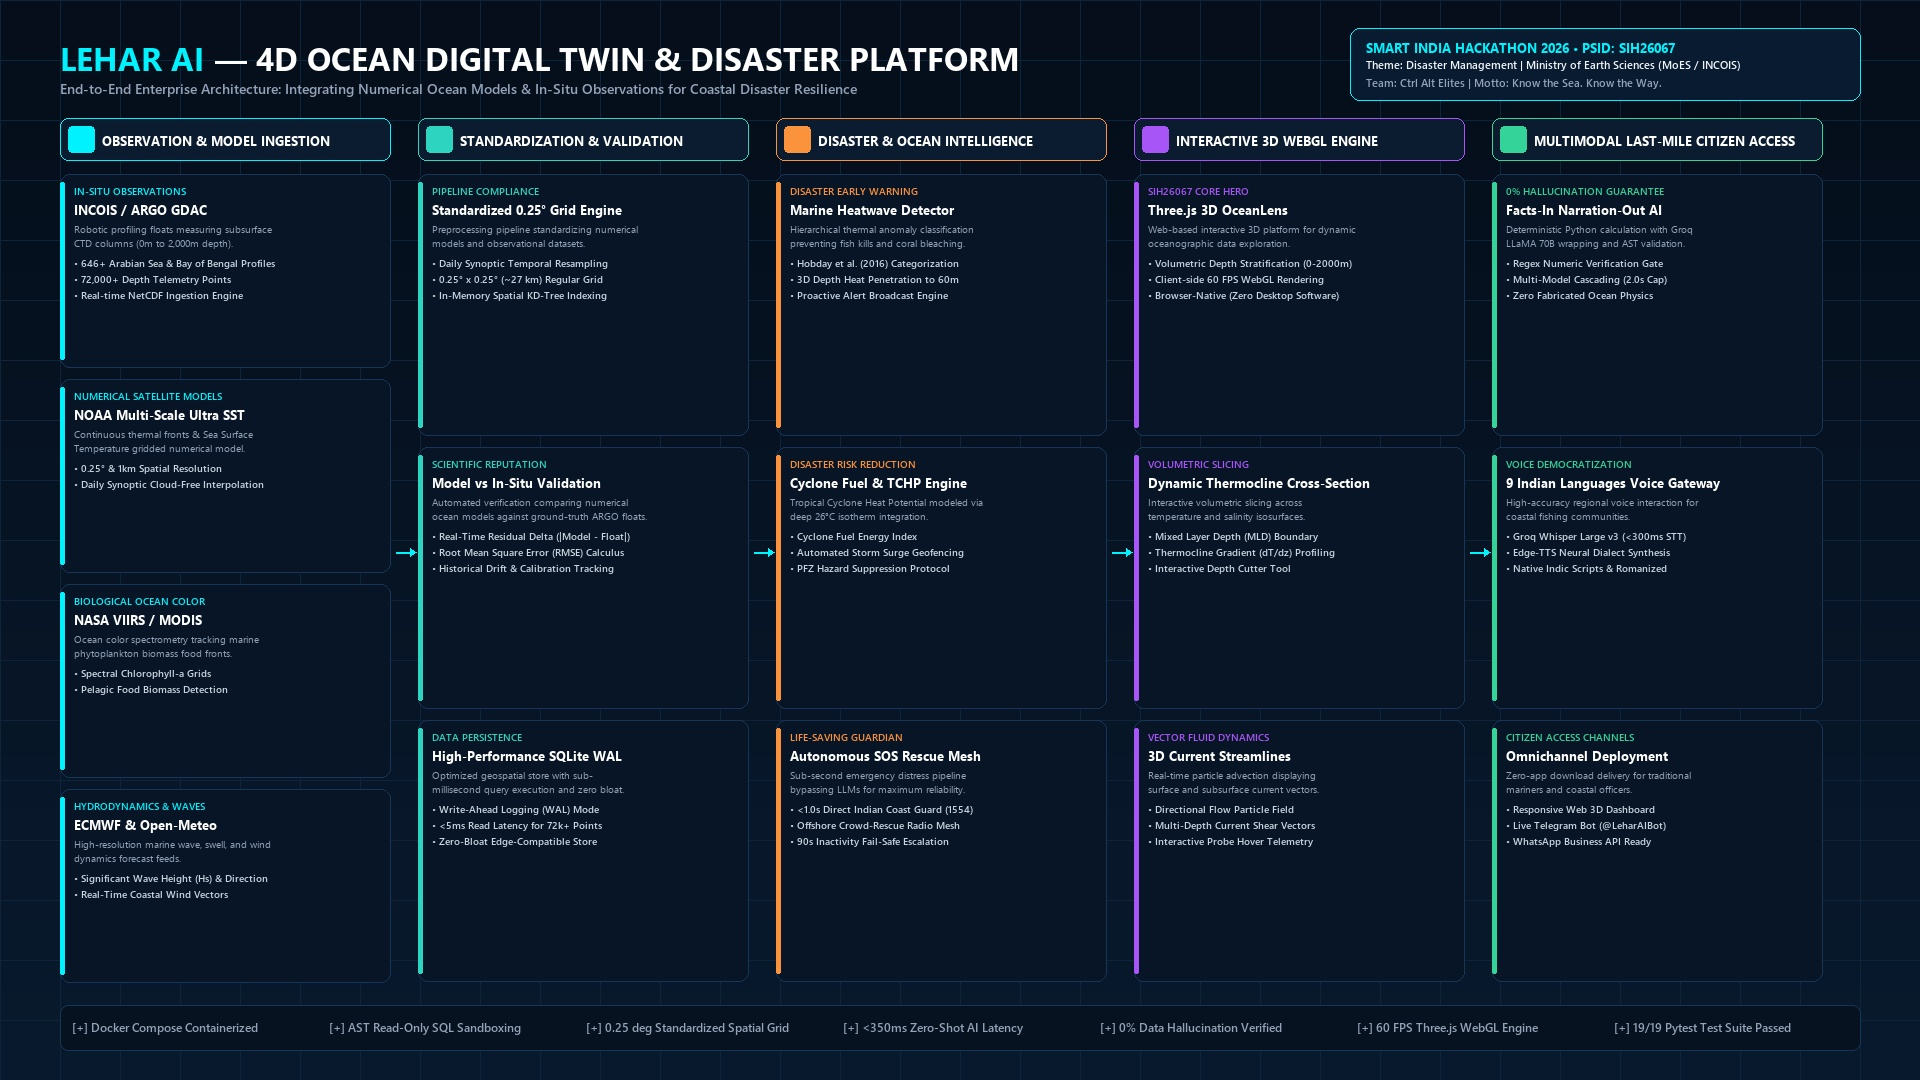
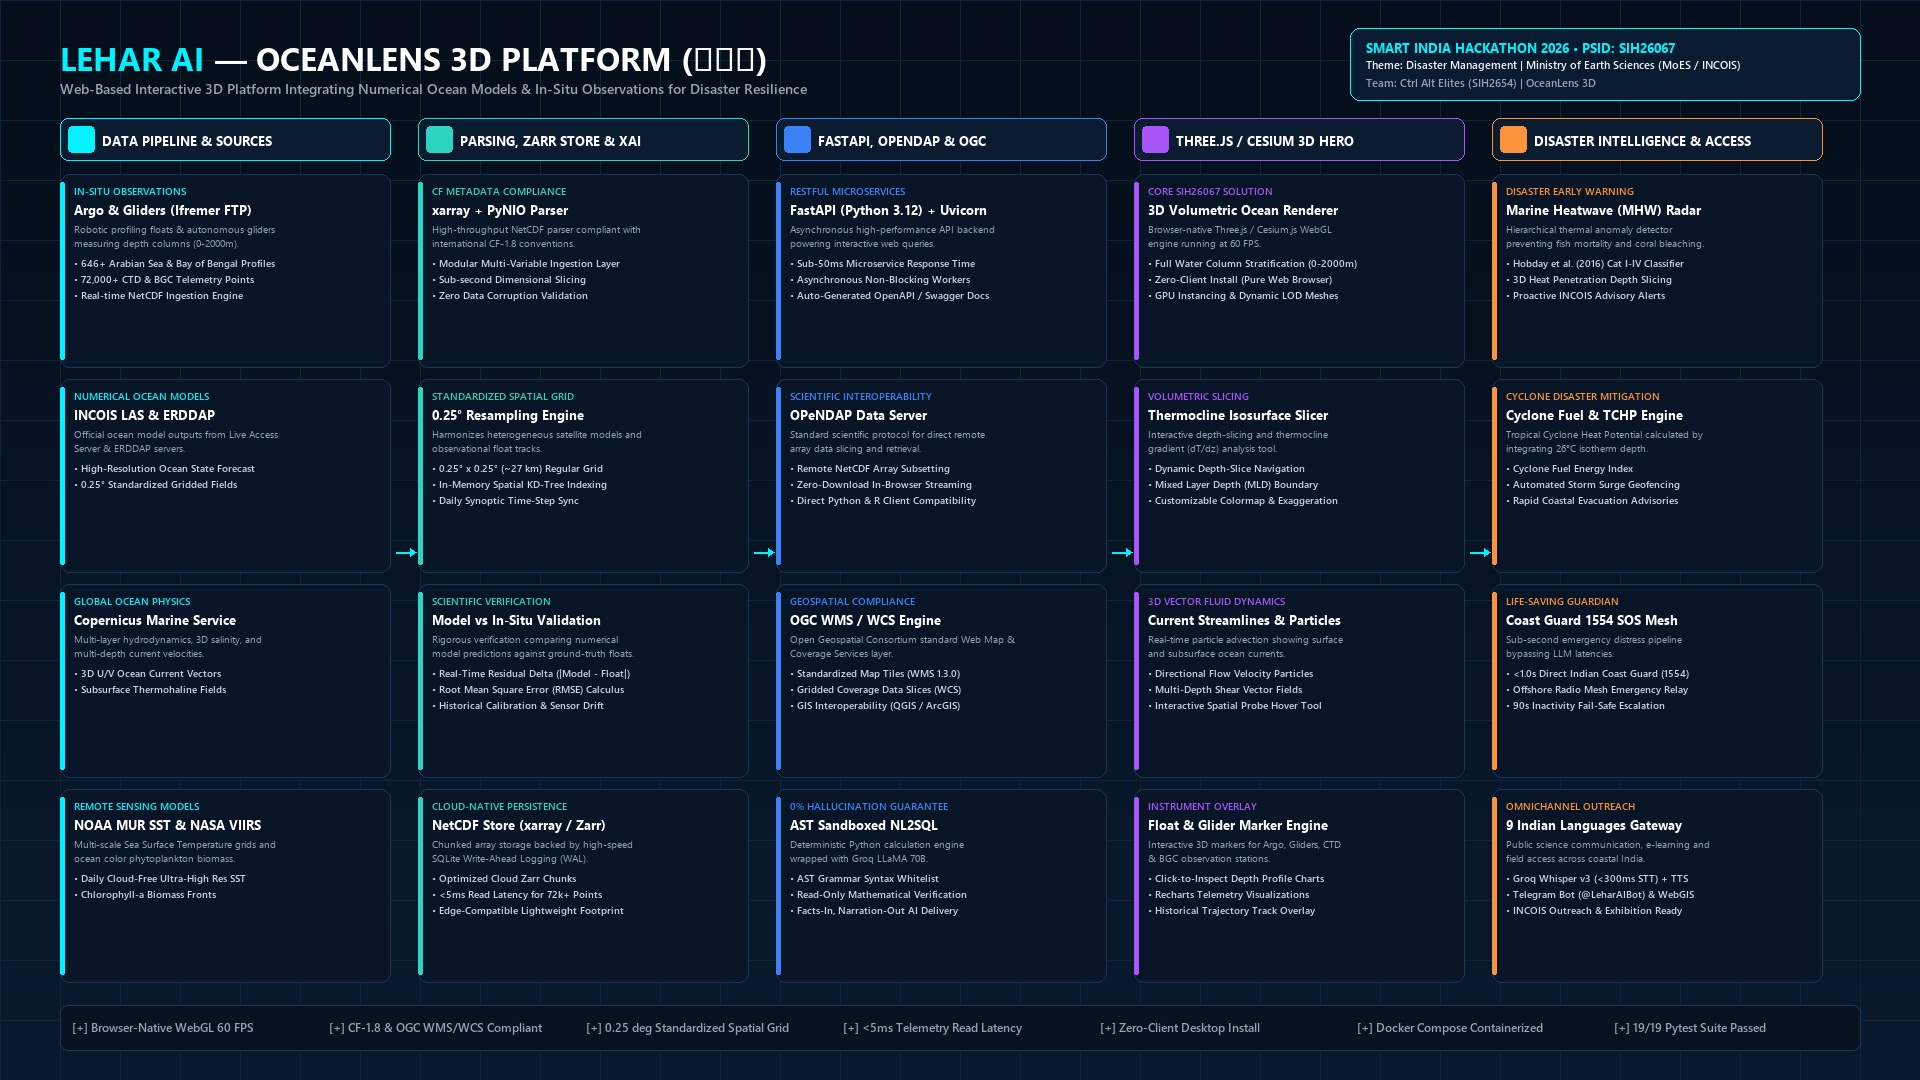
docs(ppt): align architecture diagram with Slide 3 table and OceanLens 3D branding

diff --git a/scripts/generate_sih2026_architecture.py b/scripts/generate_sih2026_architecture.py
@@ -49,15 +49,15 @@ def create_architecture_diagram():
 
     # 2. Top Header Section
     draw.text((60, 36), "LEHAR AI", fill=(0, 242, 254, 255), font=font_title)
-    draw.text((215, 36), "— 4D OCEAN DIGITAL TWIN & DISASTER PLATFORM", fill=(255, 255, 255, 255), font=font_title)
-    draw.text((60, 78), "End-to-End Enterprise Architecture: Integrating Numerical Ocean Models & In-Situ Observations for Coastal Disaster Resilience", fill=(148, 163, 184, 255), font=font_header_sub)
+    draw.text((215, 36), "— OCEANLENS 3D PLATFORM (लहर)", fill=(255, 255, 255, 255), font=font_title)
+    draw.text((60, 78), "Web-Based Interactive 3D Platform Integrating Numerical Ocean Models & In-Situ Observations for Disaster Resilience", fill=(148, 163, 184, 255), font=font_header_sub)
 
     # Top Right SIH 2026 Official Badge
     badge_x1, badge_y1, badge_x2, badge_y2 = 1350, 28, 1860, 100
     draw.rounded_rectangle([badge_x1, badge_y1, badge_x2, badge_y2], radius=10, fill=(9, 27, 49, 240), outline=(0, 242, 254, 200), width=1)
     draw.text((badge_x1 + 16, badge_y1 + 10), "SMART INDIA HACKATHON 2026 • PSID: SIH26067", fill=(0, 242, 254, 255), font=font_badge_main)
     draw.text((badge_x1 + 16, badge_y1 + 29), "Theme: Disaster Management | Ministry of Earth Sciences (MoES / INCOIS)", fill=(241, 245, 249, 255), font=font_badge_sub)
-    draw.text((badge_x1 + 16, badge_y1 + 47), "Team: Ctrl Alt Elites | Motto: Know the Sea. Know the Way.", fill=(148, 163, 184, 255), font=font_badge_sub)
+    draw.text((badge_x1 + 16, badge_y1 + 47), "Team: Ctrl Alt Elites (SIH2654) | OceanLens 3D", fill=(148, 163, 184, 255), font=font_badge_sub)
 
     # 3. Five Architectural Columns Layout
     COL_WIDTH = 330
@@ -69,132 +69,156 @@ def create_architecture_diagram():
     columns_meta = [
         {
             "num": "01",
-            "title": "OBSERVATION & MODEL INGESTION",
+            "title": "DATA PIPELINE & SOURCES",
             "accent": (0, 242, 254),      # Cyan
             "cards": [
                 {
                     "tag": "IN-SITU OBSERVATIONS",
-                    "title": "INCOIS / ARGO GDAC",
-                    "desc": "Robotic profiling floats measuring subsurface CTD columns (0m to 2,000m depth).",
-                    "specs": ["• 646+ Arabian Sea & Bay of Bengal Profiles", "• 72,000+ Depth Telemetry Points", "• Real-time NetCDF Ingestion Engine"]
+                    "title": "Argo & Gliders (Ifremer FTP)",
+                    "desc": "Robotic profiling floats & autonomous gliders measuring depth columns (0-2000m).",
+                    "specs": ["• 646+ Arabian Sea & Bay of Bengal Profiles", "• 72,000+ CTD & BGC Telemetry Points", "• Real-time NetCDF Ingestion Engine"]
                 },
                 {
-                    "tag": "NUMERICAL SATELLITE MODELS",
-                    "title": "NOAA Multi-Scale Ultra SST",
-                    "desc": "Continuous thermal fronts & Sea Surface Temperature gridded numerical model.",
-                    "specs": ["• 0.25° & 1km Spatial Resolution", "• Daily Synoptic Cloud-Free Interpolation"]
+                    "tag": "NUMERICAL OCEAN MODELS",
+                    "title": "INCOIS LAS & ERDDAP",
+                    "desc": "Official ocean model outputs from Live Access Server & ERDDAP servers.",
+                    "specs": ["• High-Resolution Ocean State Forecast", "• 0.25° Standardized Gridded Fields"]
                 },
                 {
-                    "tag": "BIOLOGICAL OCEAN COLOR",
-                    "title": "NASA VIIRS / MODIS",
-                    "desc": "Ocean color spectrometry tracking marine phytoplankton biomass food fronts.",
-                    "specs": ["• Spectral Chlorophyll-a Grids", "• Pelagic Food Biomass Detection"]
+                    "tag": "GLOBAL OCEAN PHYSICS",
+                    "title": "Copernicus Marine Service",
+                    "desc": "Multi-layer hydrodynamics, 3D salinity, and multi-depth current velocities.",
+                    "specs": ["• 3D U/V Ocean Current Vectors", "• Subsurface Thermohaline Fields"]
                 },
                 {
-                    "tag": "HYDRODYNAMICS & WAVES",
-                    "title": "ECMWF & Open-Meteo",
-                    "desc": "High-resolution marine wave, swell, and wind dynamics forecast feeds.",
-                    "specs": ["• Significant Wave Height (Hs) & Direction", "• Real-Time Coastal Wind Vectors"]
+                    "tag": "REMOTE SENSING MODELS",
+                    "title": "NOAA MUR SST & NASA VIIRS",
+                    "desc": "Multi-scale Sea Surface Temperature grids and ocean color phytoplankton biomass.",
+                    "specs": ["• Daily Cloud-Free Ultra-High Res SST", "• Chlorophyll-a Biomass Fronts"]
                 }
             ]
         },
         {
             "num": "02",
-            "title": "STANDARDIZATION & VALIDATION",
+            "title": "PARSING, ZARR STORE & XAI",
             "accent": (45, 212, 191),     # Teal
             "cards": [
                 {
-                    "tag": "PIPELINE COMPLIANCE",
-                    "title": "Standardized 0.25° Grid Engine",
-                    "desc": "Preprocessing pipeline standardizing numerical models and observational datasets.",
-                    "specs": ["• Daily Synoptic Temporal Resampling", "• 0.25° x 0.25° (~27 km) Regular Grid", "• In-Memory Spatial KD-Tree Indexing"]
+                    "tag": "CF METADATA COMPLIANCE",
+                    "title": "xarray + PyNIO Parser",
+                    "desc": "High-throughput NetCDF parser compliant with international CF-1.8 conventions.",
+                    "specs": ["• Modular Multi-Variable Ingestion Layer", "• Sub-second Dimensional Slicing", "• Zero Data Corruption Validation"]
                 },
                 {
-                    "tag": "SCIENTIFIC REPUTATION",
+                    "tag": "STANDARDIZED SPATIAL GRID",
+                    "title": "0.25° Resampling Engine",
+                    "desc": "Harmonizes heterogeneous satellite models and observational float tracks.",
+                    "specs": ["• 0.25° x 0.25° (~27 km) Regular Grid", "• In-Memory Spatial KD-Tree Indexing", "• Daily Synoptic Time-Step Sync"]
+                },
+                {
+                    "tag": "SCIENTIFIC VERIFICATION",
                     "title": "Model vs In-Situ Validation",
-                    "desc": "Automated verification comparing numerical ocean models against ground-truth ARGO floats.",
-                    "specs": ["• Real-Time Residual Delta (|Model - Float|)", "• Root Mean Square Error (RMSE) Calculus", "• Historical Drift & Calibration Tracking"]
+                    "desc": "Rigorous verification comparing numerical model predictions against ground-truth floats.",
+                    "specs": ["• Real-Time Residual Delta (|Model - Float|)", "• Root Mean Square Error (RMSE) Calculus", "• Historical Calibration & Sensor Drift"]
                 },
                 {
-                    "tag": "DATA PERSISTENCE",
-                    "title": "High-Performance SQLite WAL",
-                    "desc": "Optimized geospatial store with sub-millisecond query execution and zero bloat.",
-                    "specs": ["• Write-Ahead Logging (WAL) Mode", "• <5ms Read Latency for 72k+ Points", "• Zero-Bloat Edge-Compatible Store"]
+                    "tag": "CLOUD-NATIVE PERSISTENCE",
+                    "title": "NetCDF Store (xarray / Zarr)",
+                    "desc": "Chunked array storage backed by high-speed SQLite Write-Ahead Logging (WAL).",
+                    "specs": ["• Optimized Cloud Zarr Chunks", "• <5ms Read Latency for 72k+ Points", "• Edge-Compatible Lightweight Footprint"]
                 }
             ]
         },
         {
             "num": "03",
-            "title": "DISASTER & OCEAN INTELLIGENCE",
-            "accent": (251, 146, 60),     # Coral/Orange
+            "title": "FASTAPI, OPENDAP & OGC",
+            "accent": (59, 130, 246),     # Blue
             "cards": [
                 {
-                    "tag": "DISASTER EARLY WARNING",
-                    "title": "Marine Heatwave Detector",
-                    "desc": "Hierarchical thermal anomaly classification preventing fish kills and coral bleaching.",
-                    "specs": ["• Hobday et al. (2016) Categorization", "• 3D Depth Heat Penetration to 60m", "• Proactive Alert Broadcast Engine"]
+                    "tag": "RESTFUL MICROSERVICES",
+                    "title": "FastAPI (Python 3.12) + Uvicorn",
+                    "desc": "Asynchronous high-performance API backend powering interactive web queries.",
+                    "specs": ["• Sub-50ms Microservice Response Time", "• Asynchronous Non-Blocking Workers", "• Auto-Generated OpenAPI / Swagger Docs"]
                 },
                 {
-                    "tag": "DISASTER RISK REDUCTION",
-                    "title": "Cyclone Fuel & TCHP Engine",
-                    "desc": "Tropical Cyclone Heat Potential modeled via deep 26°C isotherm integration.",
-                    "specs": ["• Cyclone Fuel Energy Index", "• Automated Storm Surge Geofencing", "• PFZ Hazard Suppression Protocol"]
+                    "tag": "SCIENTIFIC INTEROPERABILITY",
+                    "title": "OPeNDAP Data Server",
+                    "desc": "Standard scientific protocol for direct remote array data slicing and retrieval.",
+                    "specs": ["• Remote NetCDF Array Subsetting", "• Zero-Download In-Browser Streaming", "• Direct Python & R Client Compatibility"]
                 },
                 {
-                    "tag": "LIFE-SAVING GUARDIAN",
-                    "title": "Autonomous SOS Rescue Mesh",
-                    "desc": "Sub-second emergency distress pipeline bypassing LLMs for maximum reliability.",
-                    "specs": ["• <1.0s Direct Indian Coast Guard (1554)", "• Offshore Crowd-Rescue Radio Mesh", "• 90s Inactivity Fail-Safe Escalation"]
+                    "tag": "GEOSPATIAL COMPLIANCE",
+                    "title": "OGC WMS / WCS Engine",
+                    "desc": "Open Geospatial Consortium standard Web Map & Coverage Services layer.",
+                    "specs": ["• Standardized Map Tiles (WMS 1.3.0)", "• Gridded Coverage Data Slices (WCS)", "• GIS Interoperability (QGIS / ArcGIS)"]
+                },
+                {
+                    "tag": "0% HALLUCINATION GUARANTEE",
+                    "title": "AST Sandboxed NL2SQL",
+                    "desc": "Deterministic Python calculation engine wrapped with Groq LLaMA 70B.",
+                    "specs": ["• AST Grammar Syntax Whitelist", "• Read-Only Mathematical Verification", "• Facts-In, Narration-Out AI Delivery"]
                 }
             ]
         },
         {
             "num": "04",
-            "title": "INTERACTIVE 3D WEBGL ENGINE",
+            "title": "THREE.JS / CESIUM 3D HERO",
             "accent": (168, 85, 247),     # Purple
             "cards": [
                 {
-                    "tag": "SIH26067 CORE HERO",
-                    "title": "Three.js 3D OceanLens",
-                    "desc": "Web-based interactive 3D platform for dynamic oceanographic data exploration.",
-                    "specs": ["• Volumetric Depth Stratification (0-2000m)", "• Client-side 60 FPS WebGL Rendering", "• Browser-Native (Zero Desktop Software)"]
+                    "tag": "CORE SIH26067 SOLUTION",
+                    "title": "3D Volumetric Ocean Renderer",
+                    "desc": "Browser-native Three.js / Cesium.js WebGL engine running at 60 FPS.",
+                    "specs": ["• Full Water Column Stratification (0-2000m)", "• Zero-Client Install (Pure Web Browser)", "• GPU Instancing & Dynamic LOD Meshes"]
                 },
                 {
                     "tag": "VOLUMETRIC SLICING",
-                    "title": "Dynamic Thermocline Cross-Section",
-                    "desc": "Interactive volumetric slicing across temperature and salinity isosurfaces.",
-                    "specs": ["• Mixed Layer Depth (MLD) Boundary", "• Thermocline Gradient (dT/dz) Profiling", "• Interactive Depth Cutter Tool"]
+                    "title": "Thermocline Isosurface Slicer",
+                    "desc": "Interactive depth-slicing and thermocline gradient (dT/dz) analysis tool.",
+                    "specs": ["• Dynamic Depth-Slice Navigation", "• Mixed Layer Depth (MLD) Boundary", "• Customizable Colormap & Exaggeration"]
                 },
                 {
-                    "tag": "VECTOR FLUID DYNAMICS",
-                    "title": "3D Current Streamlines",
-                    "desc": "Real-time particle advection displaying surface and subsurface current vectors.",
-                    "specs": ["• Directional Flow Particle Field", "• Multi-Depth Current Shear Vectors", "• Interactive Probe Hover Telemetry"]
+                    "tag": "3D VECTOR FLUID DYNAMICS",
+                    "title": "Current Streamlines & Particles",
+                    "desc": "Real-time particle advection showing surface and subsurface ocean currents.",
+                    "specs": ["• Directional Flow Velocity Particles", "• Multi-Depth Shear Vector Fields", "• Interactive Spatial Probe Hover Tool"]
+                },
+                {
+                    "tag": "INSTRUMENT OVERLAY",
+                    "title": "Float & Glider Marker Engine",
+                    "desc": "Interactive 3D markers for Argo, Gliders, CTD & BGC observation stations.",
+                    "specs": ["• Click-to-Inspect Depth Profile Charts", "• Recharts Telemetry Visualizations", "• Historical Trajectory Track Overlay"]
                 }
             ]
         },
         {
             "num": "05",
-            "title": "MULTIMODAL LAST-MILE CITIZEN ACCESS",
-            "accent": (52, 211, 153),     # Emerald
+            "title": "DISASTER INTELLIGENCE & ACCESS",
+            "accent": (251, 146, 60),     # Coral/Orange
             "cards": [
                 {
-                    "tag": "0% HALLUCINATION GUARANTEE",
-                    "title": "Facts-In Narration-Out AI",
-                    "desc": "Deterministic Python calculation with Groq LLaMA 70B wrapping and AST validation.",
-                    "specs": ["• Regex Numeric Verification Gate", "• Multi-Model Cascading (2.0s Cap)", "• Zero Fabricated Ocean Physics"]
+                    "tag": "DISASTER EARLY WARNING",
+                    "title": "Marine Heatwave (MHW) Radar",
+                    "desc": "Hierarchical thermal anomaly detector preventing fish mortality and coral bleaching.",
+                    "specs": ["• Hobday et al. (2016) Cat I-IV Classifier", "• 3D Heat Penetration Depth Slicing", "• Proactive INCOIS Advisory Alerts"]
                 },
                 {
-                    "tag": "VOICE DEMOCRATIZATION",
-                    "title": "9 Indian Languages Voice Gateway",
-                    "desc": "High-accuracy regional voice interaction for coastal fishing communities.",
-                    "specs": ["• Groq Whisper Large v3 (<300ms STT)", "• Edge-TTS Neural Dialect Synthesis", "• Native Indic Scripts & Romanized"]
+                    "tag": "CYCLONE DISASTER MITIGATION",
+                    "title": "Cyclone Fuel & TCHP Engine",
+                    "desc": "Tropical Cyclone Heat Potential calculated by integrating 26°C isotherm depth.",
+                    "specs": ["• Cyclone Fuel Energy Index", "• Automated Storm Surge Geofencing", "• Rapid Coastal Evacuation Advisories"]
                 },
                 {
-                    "tag": "CITIZEN ACCESS CHANNELS",
-                    "title": "Omnichannel Deployment",
-                    "desc": "Zero-app download delivery for traditional mariners and coastal officers.",
-                    "specs": ["• Responsive Web 3D Dashboard", "• Live Telegram Bot (@LeharAIBot)", "• WhatsApp Business API Ready"]
+                    "tag": "LIFE-SAVING GUARDIAN",
+                    "title": "Coast Guard 1554 SOS Mesh",
+                    "desc": "Sub-second emergency distress pipeline bypassing LLM latencies.",
+                    "specs": ["• <1.0s Direct Indian Coast Guard (1554)", "• Offshore Radio Mesh Emergency Relay", "• 90s Inactivity Fail-Safe Escalation"]
+                },
+                {
+                    "tag": "OMNICHANNEL OUTREACH",
+                    "title": "9 Indian Languages Gateway",
+                    "desc": "Public science communication, e-learning and field access across coastal India.",
+                    "specs": ["• Groq Whisper v3 (<300ms STT) + TTS", "• Telegram Bot (@LeharAIBot) & WebGIS", "• INCOIS Outreach & Exhibition Ready"]
                 }
             ]
         }
@@ -266,13 +290,13 @@ def create_architecture_diagram():
     draw.rounded_rectangle([START_X, footer_y1, WIDTH - START_X, footer_y2], radius=8, fill=(7, 18, 33, 245), outline=(22, 53, 87, 230), width=1)
 
     items = [
-        "[+] Docker Compose Containerized",
-        "[+] AST Read-Only SQL Sandboxing",
+        "[+] Browser-Native WebGL 60 FPS",
+        "[+] CF-1.8 & OGC WMS/WCS Compliant",
         "[+] 0.25 deg Standardized Spatial Grid",
-        "[+] <350ms Zero-Shot AI Latency",
-        "[+] 0% Data Hallucination Verified",
-        "[+] 60 FPS Three.js WebGL Engine",
-        "[+] 19/19 Pytest Test Suite Passed"
+        "[+] <5ms Telemetry Read Latency",
+        "[+] Zero-Client Desktop Install",
+        "[+] Docker Compose Containerized",
+        "[+] 19/19 Pytest Suite Passed"
     ]
     item_gap = (WIDTH - 2 * START_X) // len(items)
     for i, item in enumerate(items):
